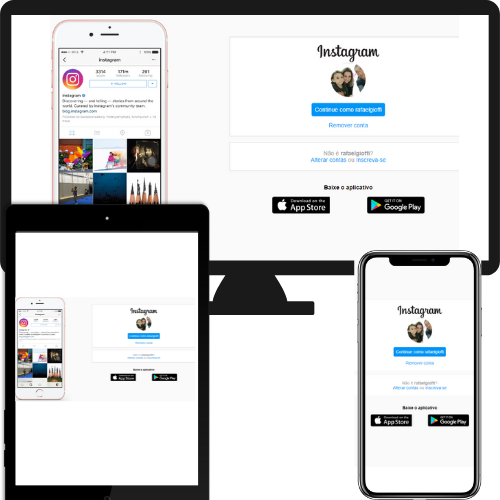
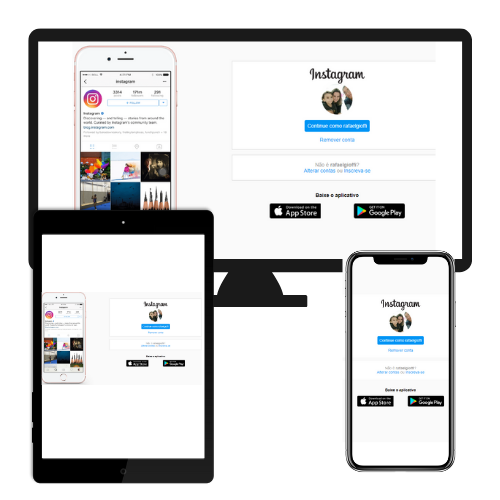
Add files via upload
Some corrections in index.html, style.css and others

diff --git a/index.html b/index.html
@@ -44,7 +44,7 @@
                         <p>
                             Olá! Eu sou o Rafael Gioffi. 
                             Atualmente estudante em duas graduações: Análise e desenvolvimento de sistemas e gestão em tecnologia da informação.
-                             Apaixonado por tecnologia e programação de um modo geral. Veja abaixo alguns projetos. Espero que goste!
+                             Apaixonado por tecnologia e programação de um modo geral. <br />Veja abaixo alguns projetos. Espero que goste!
                         </p>
                         
                     </div>
@@ -63,6 +63,7 @@
                         <div class="card-body">
                             <p>
                                 Clone da página de login do Instagram.
+                                100% responsivo.
                             </p>
                             <p>
                                Usando HTML5, CSS3, Flexbox.
@@ -70,7 +71,7 @@
                         </div>
                                         
                         <div class="card-button">
-                            <button>Saiba mais</button>
+                           <button>Confira</button>
                         </div>
                         </a>
                     </div>
@@ -148,10 +149,12 @@
                 <ul>
                     <li class="li-ornament"><a class="contact-link" href="mailtop: rafaelgioffi@gmail.com">Email: rafaelgioffi@gmail.com</a class="contato-link"></li>
                     <li class="li-ornament"><a class="contact-link" href="tel:+5522999623809">Celular: (22) 99962-3809</a></li>
+                    <li class="li-ornament"><a class="contact-link" href="https://www.linkedin.com/in/rafael-gioffi-095b2120">Linkedin: linkedin.com/in/rafael-gioffi-095b2120</a></li>
+                    <li class="li-ornament"><a class="contact-link" href="https://github.com/rafael-gioffi">Github: github.com/rafaelgioffi</a></li>
                 </ul>
 
                 <div class="map">
-                    <iframe src="https://www.google.com/maps/place/Campos+dos+Goytacazes,+RJ" width="600" height="450" frameborder="0" style="border:0;" allowfullscreen=""></iframe>
+                    <iframe src="https://www.google.com/maps/embed?pb=!1m18!1m12!1m3!1d118562.4592648581!2d-41.31456239999999!3d-21.777286450000002!2m3!1f0!2f0!3f0!3m2!1i1024!2i768!4f13.1!3m3!1m2!1s0xbdd5d1be81b545%3A0xee97b136e7168ee1!2sCampos%20dos%20Goytacazes%2C%20RJ!5e0!3m2!1spt-BR!2sbr!4v1655605655566!5m2!1spt-BR!2sbr" width="600" height="450" frameborder="0" style="border:0;" allowfullscreen=""></iframe>
                 </div>
             </section>
         </main>

diff --git a/css/style.css b/css/style.css
@@ -64,7 +64,7 @@ header {
 
 .menu .menu-link {
     display: block;
-    margin: 10px;
+    margin: 30px;
     padding: 10px;
     color: #E9F3FE;
     font-weight: bold;
@@ -83,7 +83,7 @@ main {width: 100%;}
 
 .super-card {
     width: 100%;
-    height: 70vh;
+    height: 50vh;
     display: flex;
     margin-top: 20px;
     align-items: center;
@@ -129,7 +129,7 @@ main {width: 100%;}
     width: 190px;
     display: table;
     margin: 0 auto; 
-    border-radius: 50%;
+    border-radius: 40%;
 }
 
 .card-body { padding: 1em; }
